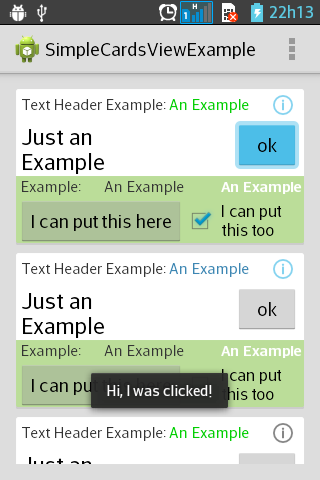
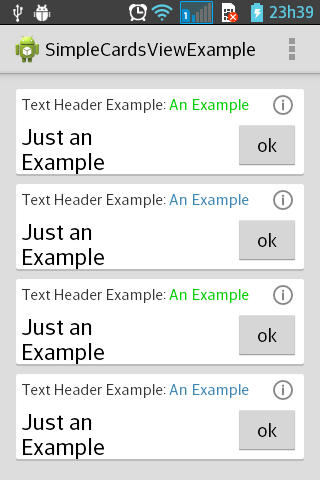
Update readme 3rd try

diff --git a/example/src/main/java/com/simplecardsview/example/view/MyListFragment.java b/example/src/main/java/com/simplecardsview/example/view/MyListFragment.java
@@ -1,11 +1,14 @@
 package com.simplecardsview.example.view;
 
+import android.animation.Animator;
 import android.os.Bundle;
 import android.support.v4.app.ListFragment;
 import android.view.LayoutInflater;
 import android.view.Menu;
 import android.view.View;
 import android.view.ViewGroup;
+import android.view.animation.Animation;
+import android.view.animation.AnimationUtils;
 import android.widget.AdapterView;
 import android.widget.Button;
 import android.widget.CheckBox;
@@ -63,6 +66,10 @@ public class MyListFragment extends ListFragment {
         cardAdapter.setConfigureListener(new CardAdapter.ConfigureListener() {
             @Override
             public void onConfigure(Card card, Entity entity, ViewHolder viewHolder, int position, boolean recycling) {
+
+                Animation animation = AnimationUtils.makeInAnimation(getActivity(), true);
+                animation.setStartOffset((position % 10)*75);
+                card.startAnimation(animation);
 
                 MyViewHolder myViewHolder = (MyViewHolder) viewHolder;
 

diff --git a/README.md b/README.md
@@ -5,4 +5,4 @@ A simple and useful library to use ListView with cards in android applications.
 
 Please, see the usage example. And there has a example of what you can do:
 
-![Example image](./img1.png)
+![Example image](./img1.png) ![Example image](./img2.png) ![Example image](./img3.png)
